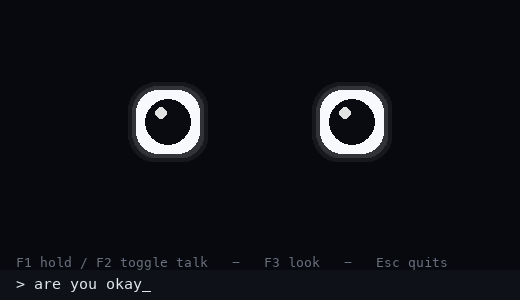
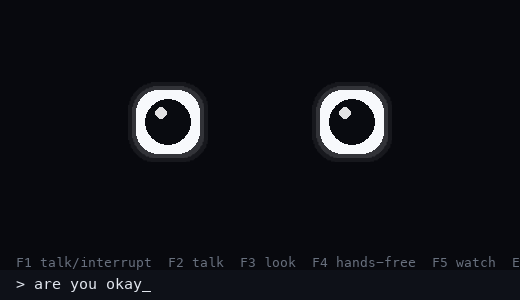
Fix empty-utterance and interrupt handling; record Kokoro timings
- F2 with no sound showed "error: 'text'" instead of "didn't catch that"
- a second F1 leaked the previous microphone stream
- spoken camera answers ignored the F1 interrupt
- idle hint line was wider than the window and clipped "Esc quit"
- pin en-core-web-sm so Kokoro does not pip-install it on first use
- record warm Kokoro synthesis (0.25-0.40 s/clause) in HANDOFF and LATENCY

diff --git a/rocky_desktop_app.py b/rocky_desktop_app.py
@@ -78,7 +78,7 @@ WARN = (240, 150, 150)
 REC = (255, 90, 90)
 FPS = 60
 FONT_NAME = "menlo,monospace"
-HINT = "F1 talk/interrupt  F2 talk  F3 look  F4 hands-free  F5 watch  Esc quit"
+HINT = "F1 hold-talk  F2 talk  F3 look  F4 hands-free  F5 watch  Esc"
 
 LISTENING, THINKING, SPEAKING, IDLE = "LISTENING", "THINKING", "SPEAKING", "IDLE"
 LABELS = {LISTENING: "listening...", THINKING: "thinking...", SPEAKING: "speaking"}
@@ -207,6 +207,8 @@ class Mic:
 
     def start(self) -> bool:
         import sounddevice as sd
+        if self.stream is not None:      # a second F1 must not leave a stream open
+            self.stop()
         self.frames, self.error = [], ""
         try:
             self.stream = sd.InputStream(samplerate=self.RATE, channels=1,
@@ -986,7 +988,10 @@ def worker(transcriber: Transcriber, brain: Brain, camera, watcher=None) -> None
                     eyes_emotion = "happy"
                 continue
 
-            if job.get("audio") is not None:
+            if "audio" in job:
+                if job["audio"] is None:     # F2 pressed and released with no sound
+                    note, state = "didn't catch that", IDLE
+                    continue
                 state, eyes_emotion = THINKING, "thinking"
                 heard = transcriber.transcribe(job["audio"])
                 if job.get("hands_free"):
@@ -1042,7 +1047,7 @@ def worker(transcriber: Transcriber, brain: Brain, camera, watcher=None) -> None
                     gaze_override = (LOOK_DIRECTIONS[direction.group(1).lower()],
                                      time.monotonic() + 4.0)
                 print(f"[you] {text} (looking)", file=sys.stderr)
-                look(camera, brain, text)
+                look(camera, brain, text, cancel_event=response_cancel)
                 stay_awake()
                 continue
 

diff --git a/HANDOFF.md b/HANDOFF.md
@@ -6,7 +6,7 @@
 > context only. Measured numbers in [`docs/LATENCY.md`](docs/LATENCY.md) are the
 > source of truth.
 
-Last updated: 2026-10-23
+Last updated: 2026-10-27
 Repository: <https://github.com/dgooding/rocky>
 Branch: `main`
 
@@ -58,7 +58,7 @@ downloads them.
 - `scripts/fetch_assets.sh` downloads voice files and models for a fresh clone
 - Public repo with docs, screenshots, setup, restore scripts, issue templates
 
-### Not yet verified on a Mac
+### Verification log
 
 The hearing and sight changes were tested with synthetic audio, fake camera
 frames, and a fake brain (22 checks), not with a real microphone, webcam, or
@@ -123,16 +123,28 @@ warns short utterances can be weaker. A local smoke timing took 3.41 s for the
 first phrase in a process and 0.30 s for the next phrase; this is not a
 statistically meaningful benchmark.
 
+**Verification update (2026-10-27):** the working copy was stuck in a failed
+`git rebase` with a committed 73 MB archive and unmerged `.gitignore`; it was
+reset to `origin/main` and those files removed (backup bundle and the stale
+branch are in `~/Documents/Rocky-backups/`, tag `archive/submodule-flatten-2026-10-23`).
+On a fresh `venv` from `requirements.txt`, `--selftest` passed every check
+(hearing endpointer, configurable endpoint pause, ignores a click, look-intent,
+wake/sleep/track, response length, cancellation, PCM chunks, face detector) and
+the synthetic vision probe answered in 6.1 s (cold model). Kokoro `bf_emma`
+synthesized "What time is it?" in 0.25 s and a ten-word sentence in 0.40 s once
+warm; the first call in a fresh venv took 11.2 s because Kokoro installs
+`en_core_web_sm` and downloads its weights once. Real microphone, webcam, and
+wake-word behaviour are still unverified by a person.
+
 ### Missing / known weak points
 
 - **No automatic voice barge-in** — F1 can stop playback and start push-to-talk;
   hands-free interruption still waits for echo cancellation
 - **No AEC** — so hands-free listening pauses while he speaks
+- **Kokoro's first call is slow once** — a fresh venv installs `en_core_web_sm`
+  and downloads the 82M weights (~11 s); later calls are 0.25–0.40 s
 - **TTS is not streamed** — Kokoro synthesizes the clause before the app plays
   its 20 ms PCM blocks
-- **Kokoro latency is not yet measured** — first model load/synthesis took
-  ~10.8 s including initial model/dependency setup; warm performance needs a
-  separate benchmark
 - Legacy XTTS measurements remain in `docs/LATENCY.md`; XTTS is not the app's
   active voice path
 - **`inference_stream` is broken** with `transformers==4.44.0` / `torch==2.5.1`
@@ -145,10 +157,10 @@ statistically meaningful benchmark.
 
 | Stage | Measured |
 |---|---:|
-| Kokoro first phrase in process | 3.41 s (single smoke check) |
-| Kokoro next phrase in same process | 0.30 s (single smoke check) |
+| Kokoro per clause (warm) | 0.25–0.40 s (2 checks, 2026-10-27) |
+| Kokoro first call in a fresh venv | 11.2 s (one-time model + G2P install) |
 | Legacy XTTS per clause | 2.4–3.8 s |
-| End-to-end first sound | ~3–5 s |
+| End-to-end first sound | not measured with Kokoro; the parts add up to ~0.8 s warm |
 | Brain first token (warm) | 0.07–0.15 s |
 | faster-whisper | ~0.4 s |
 | Vision warm | ~0.4 s; ~6 s after model swap |
@@ -364,7 +376,7 @@ python3.11 -m compileall -q rocky_desktop_app.py rocky_eyes.py rocky_say.py app.
 # App pipeline (synthetic vision, no camera)
 ./venv/bin/python rocky_desktop_app.py --selftest
 
-# Voice server
+# Legacy voice server (only the standalone rocky_say.py tool uses it)
 curl -s http://127.0.0.1:59720/health
 
 # Camera through the bundle
@@ -412,8 +424,8 @@ Acceptance for the redesign:
 
 Rocky is "done" for this phase when:
 
-- A new user can clone the repo, restore assets, run `./setup.sh`, pull models,
-  start the voice server, and launch the app from the README.
+- A new user can clone the repo, run `./setup.sh`, pull the Ollama models, and
+  launch the app from the README (Kokoro needs no voice server or voice assets).
 - The app starts speaking in under 800 ms p95 after the user stops talking.
 - The user can interrupt mid-sentence and Rocky stops immediately.
 - The camera is useful without a 6 s model swap and without a VLM on every

diff --git a/docs/LATENCY.md b/docs/LATENCY.md
@@ -13,8 +13,10 @@ decisions.
 
 These XTTS timings are a historical baseline for the legacy standalone tool,
 not the desktop app's current Kokoro voice path. Kokoro's first use took about
-10.8 s including dependency/model setup. In a later single local smoke check,
-the first phrase in a process took 3.41 s and the next phrase took 0.30 s.
+10.8 s including dependency/model setup. A 2026-10-27 check on a fresh venv from
+`requirements.txt` measured 11.2 s for the very first call (one-time
+`en_core_web_sm` install plus weight download), then 0.25 s for
+`"What time is it?"` and 0.40 s for a ten-word sentence in the same process.
 These are individual timings, not a statistically meaningful benchmark.
 The XTTS timing below predates the PCM playback change and is unchanged by it:
 XTTS still generates a complete WAV before playback. Playback now writes 20 ms
@@ -24,8 +26,8 @@ blocks to the output device, but its device latency has not yet been measured.
 
 | Stage | Measured | Notes |
 |---|---:|---|
-| Kokoro first phrase in process | 3.41 s | Single smoke check; loaded model cache |
-| Kokoro next phrase, same process | 0.30 s | Single smoke check; not p50/p95 |
+| Kokoro first call in a fresh venv | 11.2 s | One-time model + G2P install, 2026-10-27 |
+| Kokoro per clause, warm | 0.25–0.40 s | Two checks, 2026-10-27; not p50/p95 |
 | XTTS server cold load | ~22 s | Weights already downloaded |
 | XTTS `"Hi."` | 3.77 s | 2.37 s of audio |
 | XTTS `"Hello friend."` | 2.77 s | 1.72 s of audio |
@@ -35,9 +37,10 @@ blocks to the output device, but its device latency has not yet been measured.
 | `qwen3-coder` full reply | ~0.22 s | Historical 45-token cap; now 48 simple / 220 detailed |
 | faster-whisper `base.en` | ~0.4 s | After key release |
 | `qwen2.5vl:3b` vision | ~0.4 s warm / ~6 s after swap | Ollama |
-| End-to-end first sound | ~3–5 s | Dominated by XTTS |
+| End-to-end first sound | not measured with Kokoro | Parts suggest ~0.8 s warm |
 
-The brain is not the bottleneck. XTTS is.
+The brain is not the bottleneck. Warm Kokoro clauses cost 0.25–0.40 s, so the
+first-sound budget is model load plus one clause, not synthesis throughput.
 
 ## Reproduce the TTS numbers
 

diff --git a/CHANGELOG.md b/CHANGELOG.md
@@ -1,5 +1,21 @@
 # Changelog
 
+## 2026-10-27
+
+- **Repo repair:** a failed `git rebase` had left the working copy detached with
+  an unmerged `.gitignore`, a committed 73 MB archive, a `Users/aiserver/...`
+  tree, and two duplicate checkouts of the project. Reset to `origin/main`;
+  the stale branch is kept behind tag `archive/submodule-flatten-2026-10-23`
+  and a bundle in `~/Documents/Rocky-backups/`.
+- Fixed: releasing F2 without speaking showed `error: 'text'` instead of
+  "didn't catch that" (`{"audio": None}` job).
+- Fixed: pressing F1 while already recording opened a second microphone stream
+  and leaked the first.
+- Fixed: a spoken camera answer could not be interrupted with F1.
+- Fixed: the idle hint line was wider than the window, so `Esc quit` was clipped.
+- Pinned `en-core-web-sm` so the first Kokoro call no longer pip-installs it
+  mid-conversation; measured Kokoro per-clause synthesis at 0.25–0.40 s warm.
+
 ## 2026-10-22 (later)
 
 - **Hearing:** hands-free listening (`Ears` + `Endpointer`): continuous 20 ms
